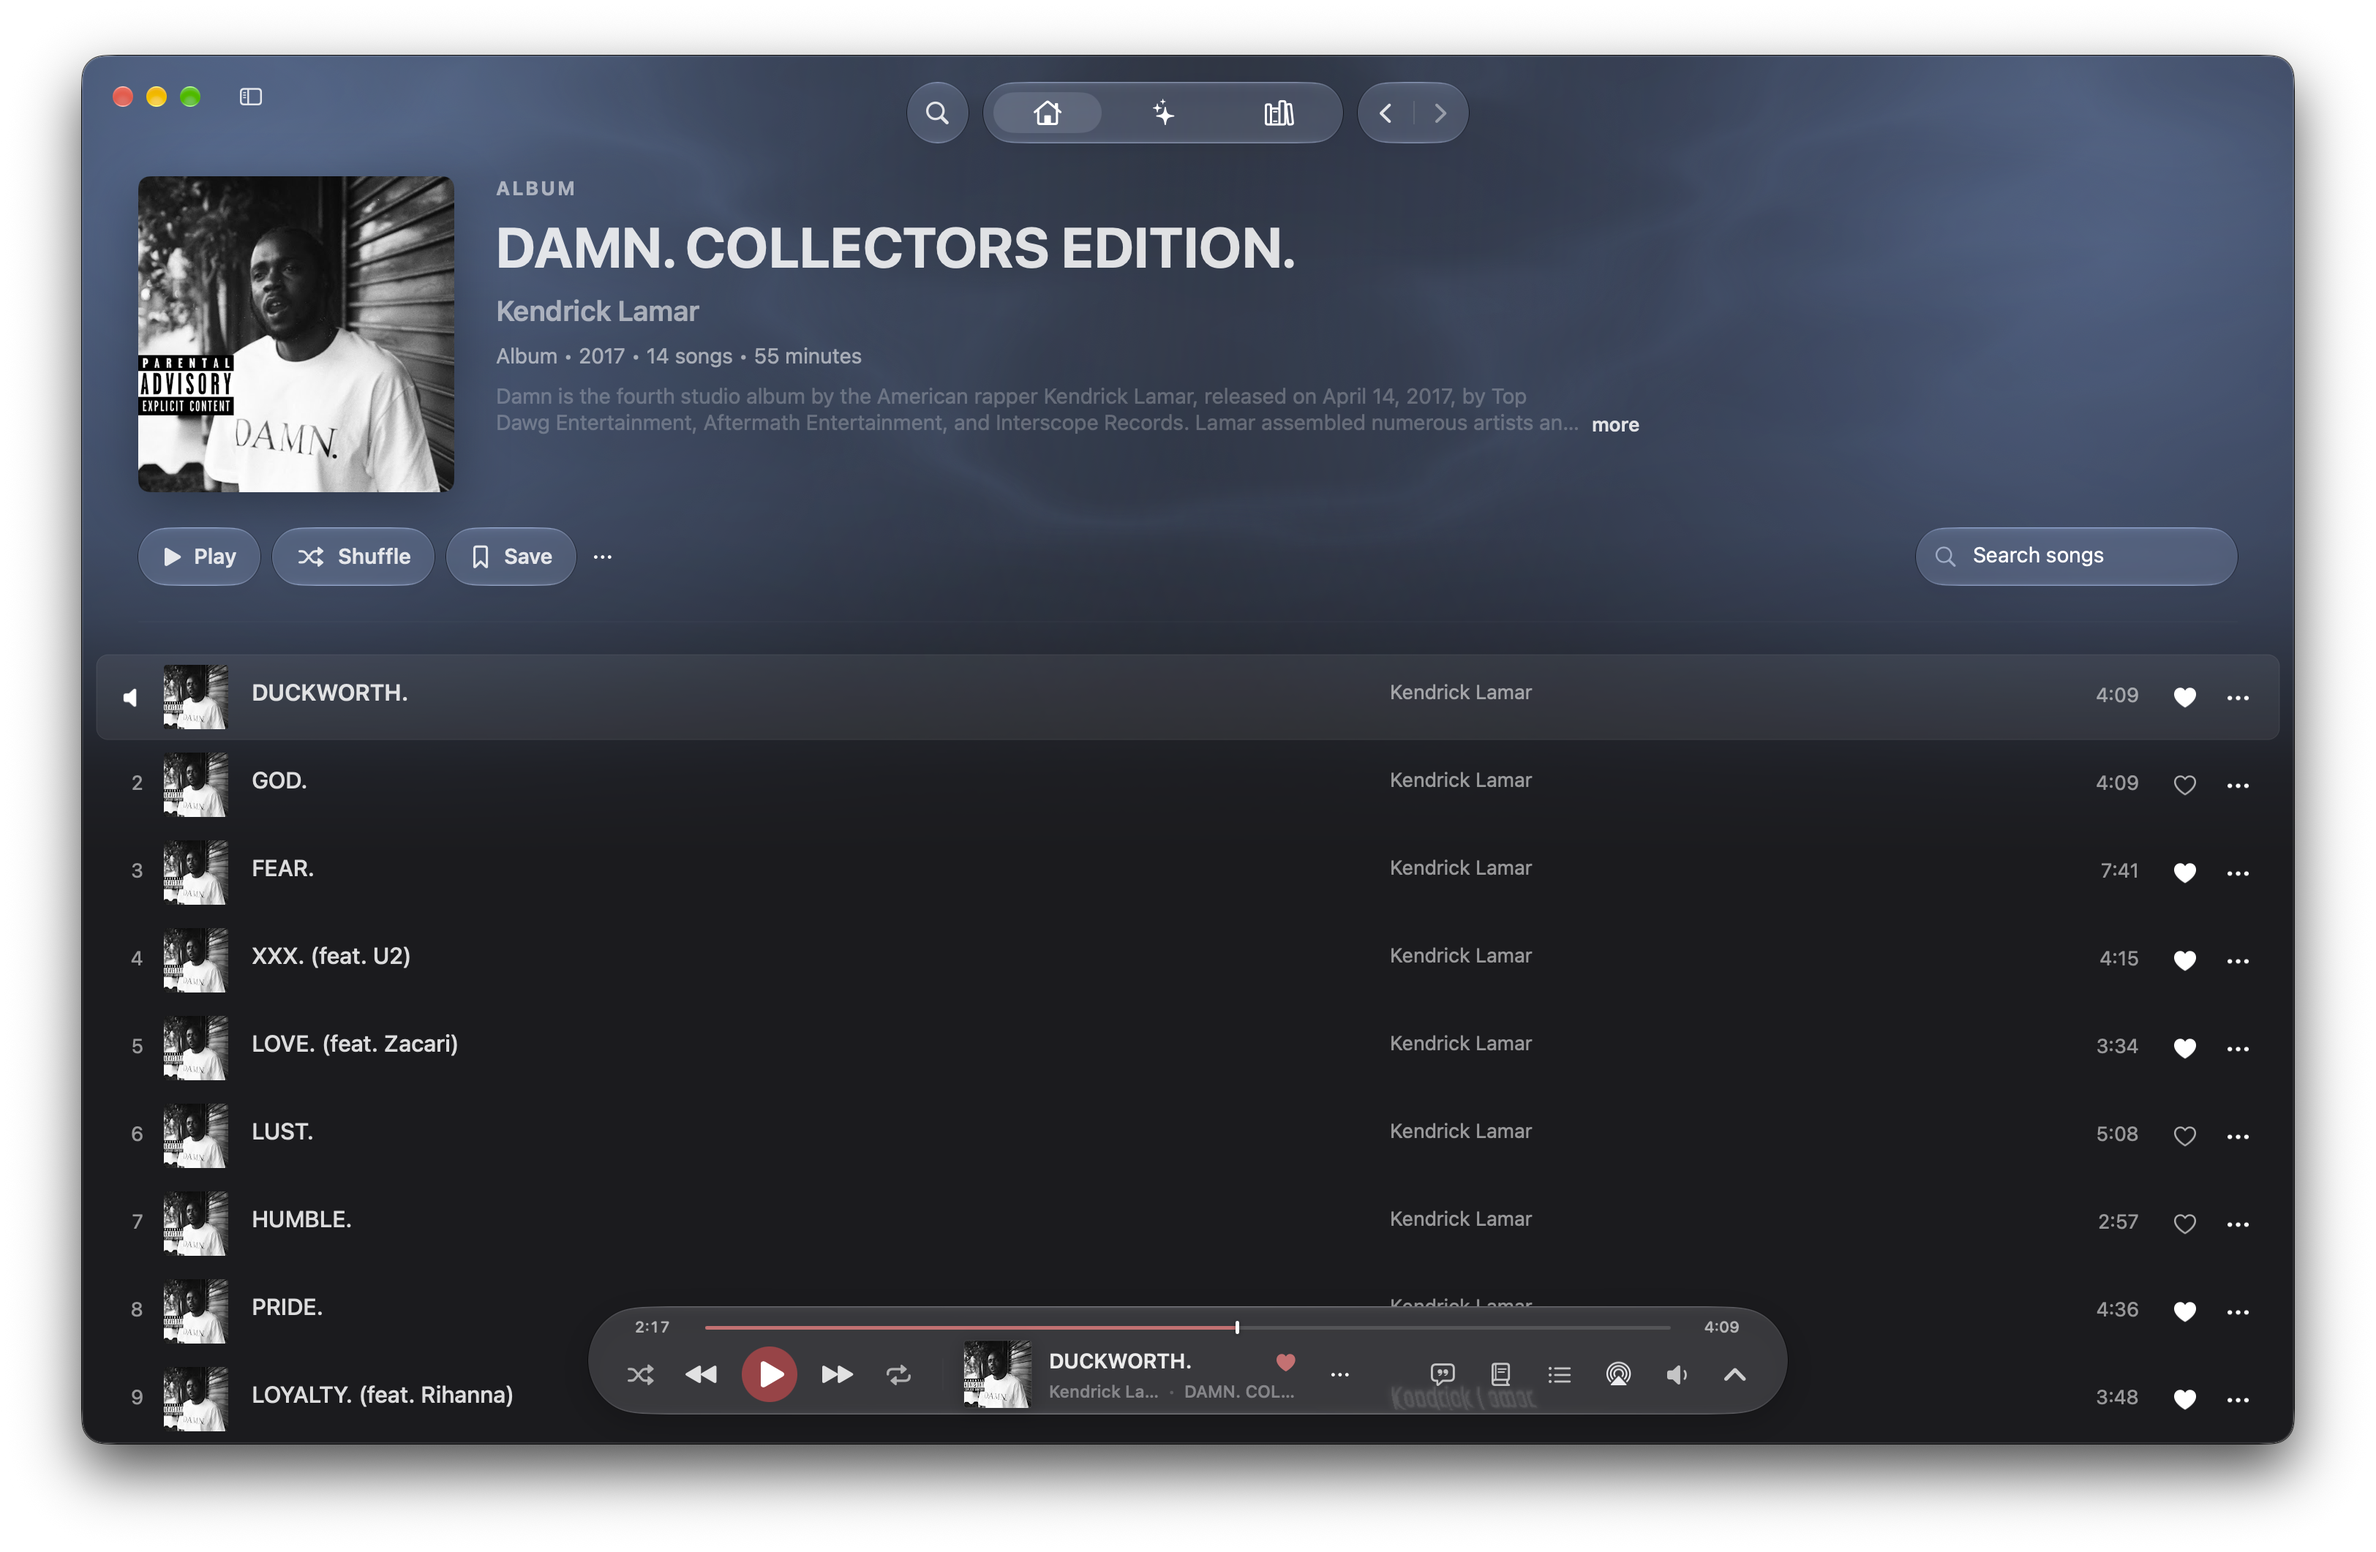
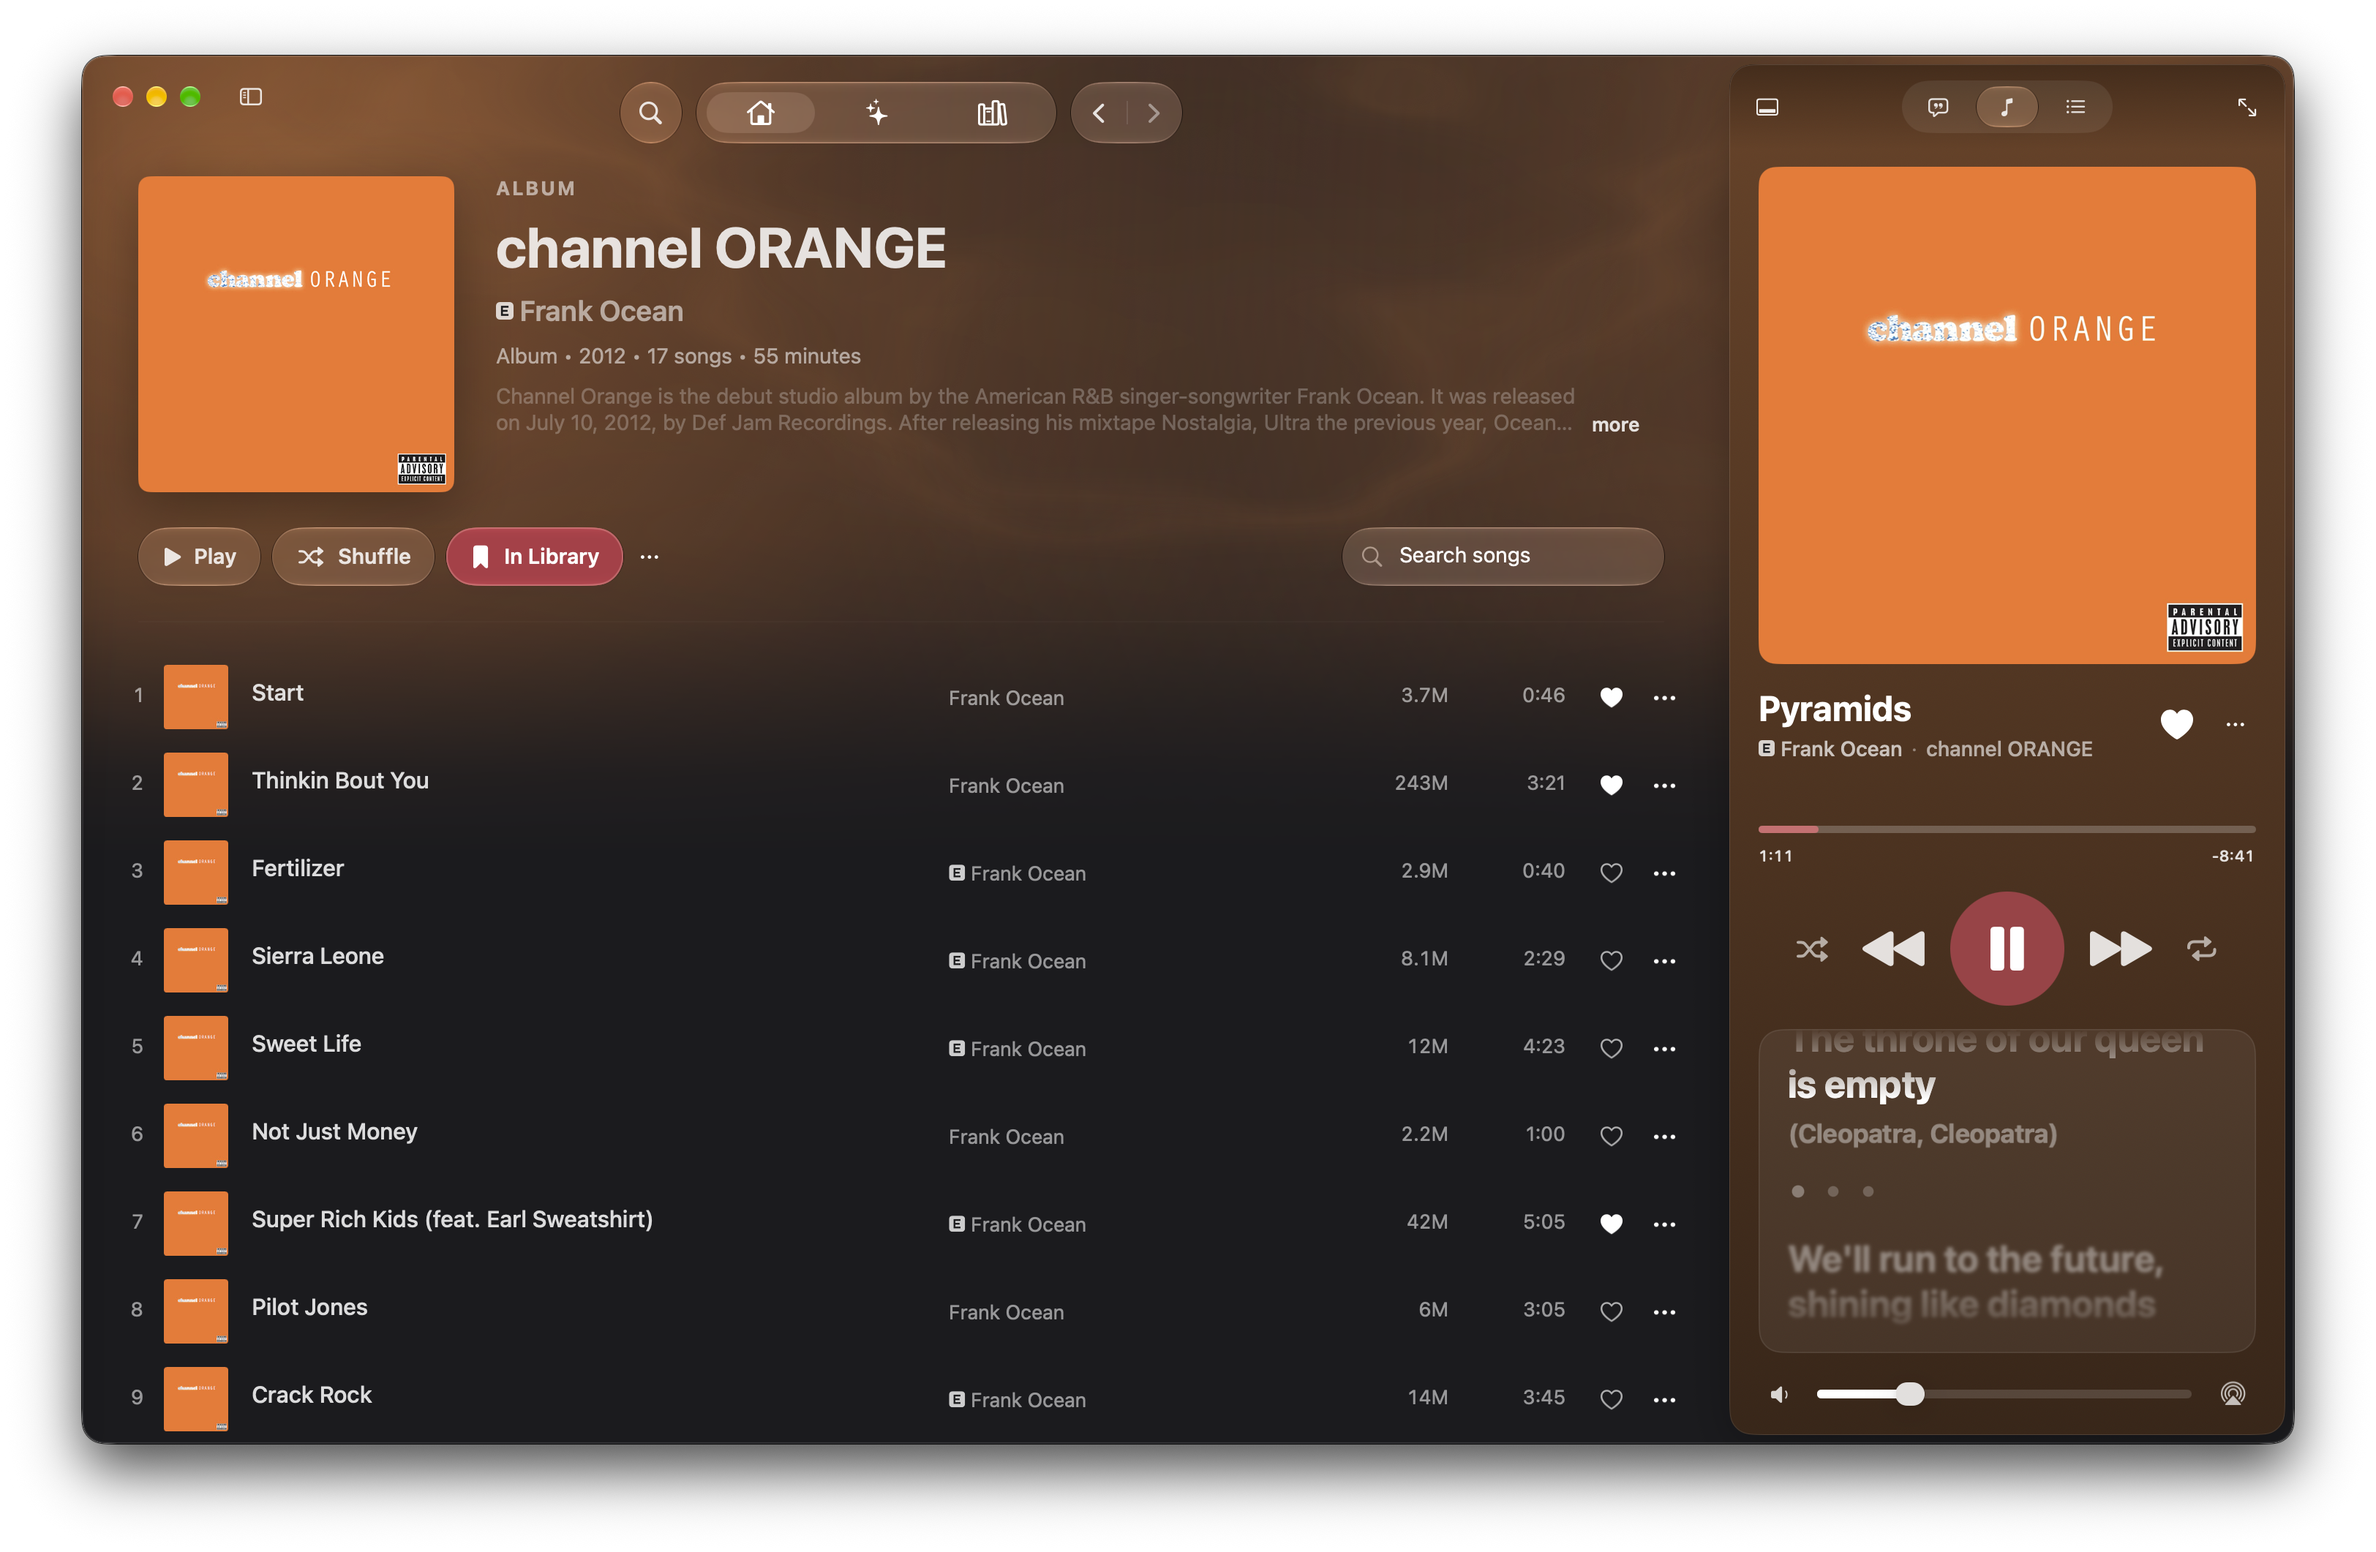
docs: actualiza capturas macOS del README y suma vistas de Spotify Jam (FIX-345) [skip ci]

diff --git a/FIXES.md b/FIXES.md
@@ -4,9 +4,20 @@ Memoria de cambios de Side B para investigar problemas y regresiones. Buscar aqu
 
 Tags de ámbito: `[Apple]`, `[Windows]`, `[Compartido]`. Core y herramientas comunes usan Compartido, detallando el componente. El tag indica dónde se hizo el cambio; no demuestra que ambas plataformas hayan sido verificadas. Estados, fechas, componentes y relaciones se conservan dentro de cada entrada.
 
-Todos los nuevos IDs siguen la serie `FIX-NNN`; siguiente libre: **FIX-345**. Los IDs repetidos FIX-285/286/287 (2026-11-02) se desambiguaron renumerando las entradas de proveedor visual como FIX-310/311/312; FIX-285/286/287 conservan las de Inicio y recomendaciones laterales. Se conservaron los FIX/FEAT históricos. Dos números antiguos repetidos se distinguen como `FIX-027-2` y `FIX-028-2`, anotando el ID original; al citar FIX-027/028 comprobar título y entrada exacta.
+Todos los nuevos IDs siguen la serie `FIX-NNN`; siguiente libre: **FIX-346**. Los IDs repetidos FIX-285/286/287 (2026-11-02) se desambiguaron renumerando las entradas de proveedor visual como FIX-310/311/312; FIX-285/286/287 conservan las de Inicio y recomendaciones laterales. Se conservaron los FIX/FEAT históricos. Dos números antiguos repetidos se distinguen como `FIX-027-2` y `FIX-028-2`, anotando el ID original; al citar FIX-027/028 comprobar título y entrada exacta.
 
 ## Cambios recientes
+
+<a id="fix-345"></a>
+### [FIX-345] [Apple] - Actualización de capturas del README e incorporación de vistas de Spotify Jam
+
+- Fecha: 2026-11-13 (America/Montevideo).
+- Componente / estado: README público y galería documental en `docs/screenshots/`; guardado en commit local sobre `main`.
+- Problema / causa: las capturas publicadas en [FIX-226](#fix-226) correspondían a la UI del 2026-10-19 y no reflejaban la barra inferior nueva, las tarjetas actuales de Inicio ni la integración de Spotify Jam como invitado ([FIX-343](#fix-343)).
+- Cambio / motivo: se reemplazan byte a byte cinco capturas macOS existentes (`3248×2122`: Inicio con barra lateral, Inicio expandido, detalle de álbum con panel lateral, cola en fullscreen y letras sincronizadas), se conserva `macos-genius-annotations.png` al no incluirse captura nueva para esa vista, y se agregan dos vistas nuevas de Spotify Jam (`macos-fullscreen-jam.png` de `3248×2122` y `macos-jam-connections.png` de `1296×1300`). Se ajustan las descripciones correspondientes en `README.md` y el índice en `docs/screenshots/README.md`.
+- Archivos: `README.md`, `docs/screenshots/README.md`, `docs/screenshots/{macos-home-sidebar,macos-fullscreen-queue,macos-synced-lyrics,macos-album-detail,macos-home-wide,macos-fullscreen-jam,macos-jam-connections}.png`, `FIXES.md`.
+- Verificación / límites: copia exacta verificada por SHA-256 y dimensiones (`3248×2122` y `1296×1300`); revisión por OCR del contenido visible y enlaces relativos en `README.md` y `docs/screenshots/README.md`. Sin cambios de código ni nuevas builds o tests; no se ejecuta `git push`.
+- Paridad: documentación y galería rotuladas explícitamente para macOS; no modifica código de aplicación ni cierra paridad Windows. Relacionados: [FIX-226](#fix-226), [FIX-343](#fix-343).
 
 <a id="fix-344"></a>
 ### [FIX-344] [Windows] - Escuchar juntos: Spotify Jam como invitado en Windows (paridad con FIX-343)

diff --git a/README.md b/README.md
@@ -46,7 +46,7 @@ These screenshots show the native macOS app. Click an image to see it at full re
 
 **Home and your collection · macOS**
 
-Speed Dial, album recommendations and your saved playlists, with navigation and your collection in the sidebar.
+Speed Dial, mood filters and your saved collection in the sidebar, with the compact floating player bar below.
 
 [![Home and your collection in Side B for macOS](docs/screenshots/macos-home-sidebar.png)](docs/screenshots/macos-home-sidebar.png)
 
@@ -70,7 +70,7 @@ Open an annotation beside the lyrics to explore the story behind a song.
 
 **Album details · macOS**
 
-Browse an album, search its track list and keep playback controls within reach.
+Browse an album, search its track list and keep the side player and playback controls within reach.
 
 [![Album details in Side B for macOS](docs/screenshots/macos-album-detail.png)](docs/screenshots/macos-album-detail.png)
 
@@ -79,6 +79,18 @@ Browse an album, search its track list and keep playback controls within reach.
 Collapse the sidebar to give Home more space while keeping navigation and the floating player available.
 
 [![More room for your music in Side B for macOS](docs/screenshots/macos-home-wide.png)](docs/screenshots/macos-home-wide.png)
+
+**Spotify Jam (guest mode) · macOS**
+
+Listen in sync with a friend's Spotify Jam from YouTube Music, with a live session badge and shared Jam queue in fullscreen.
+
+[![Spotify Jam in fullscreen in Side B for macOS](docs/screenshots/macos-fullscreen-jam.png)](docs/screenshots/macos-fullscreen-jam.png)
+
+**Connections and Spotify Jam · macOS**
+
+Switch audio output or paste a Spotify Jam link directly from the Connections menu in the bottom player bar.
+
+[![Connections and Spotify Jam popover in Side B for macOS](docs/screenshots/macos-jam-connections.png)](docs/screenshots/macos-jam-connections.png)
 
 ## Download
 

diff --git a/docs/screenshots/README.md b/docs/screenshots/README.md
@@ -8,7 +8,7 @@ Suggested names: `macos-home.png`, `macos-fullscreen.png`, `windows-home.png`, `
 
 ## Published gallery
 
-Six native macOS screenshots supplied by the project owner on 2026-10-19 are included in the root README. PNG files are copied byte for byte from the supplied captures, retaining their original 3248×2122 resolution and proportions. The captions describe the visible UI; these images are not Windows screenshots or QA browser fixtures.
+Eight native macOS screenshots supplied by the project owner are included in the root README: seven refreshed/added on 2026-11-13 (`3248×2122` full-window captures plus the `1296×1300` Connections popover capture) and `macos-genius-annotations.png` retained from 2026-10-19 (`3248×2122`). PNG files are copied byte for byte from the supplied captures, retaining their original resolutions and proportions. The captions describe the visible UI; these images are not Windows screenshots or QA browser fixtures.
 
 | File | View |
 |---|---|
@@ -18,3 +18,5 @@ Six native macOS screenshots supplied by the project owner on 2026-10-19 are inc
 | [macos-genius-annotations.png](macos-genius-annotations.png) | Genius annotations · macOS |
 | [macos-album-detail.png](macos-album-detail.png) | Album details · macOS |
 | [macos-home-wide.png](macos-home-wide.png) | More room for your music · macOS |
+| [macos-fullscreen-jam.png](macos-fullscreen-jam.png) | Spotify Jam (guest mode) · macOS |
+| [macos-jam-connections.png](macos-jam-connections.png) | Connections and Spotify Jam · macOS |
